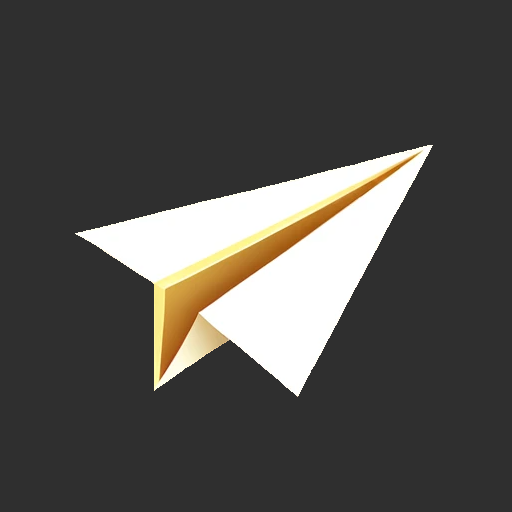
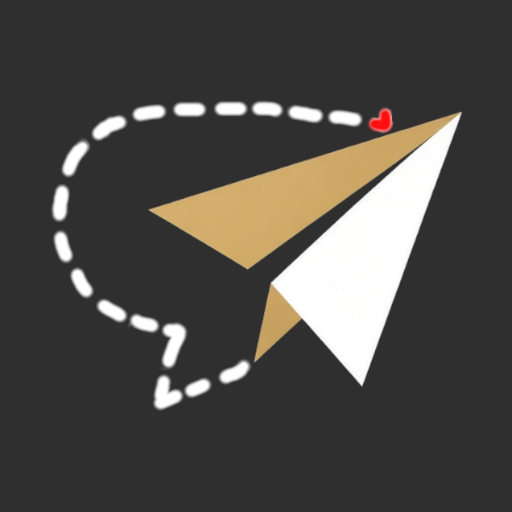
fix :
- changed title TikiLing -> TikiLingo
- changed AppIcon
- download URL(https://play.google.com/store/apps/details?id=com.smk.tikitalk)

Changed region(s): [[0.0938, 0.1875, 0.9062, 0.8125]]

diff --git a/account-deletion.html b/account-deletion.html
@@ -7,9 +7,9 @@
     <meta name="viewport" content="width=device-width, initial-scale=1">
 
     <meta name="description"
-        content="TikiTalk account deletion instructions. Learn how to request deletion of your TikiTalk account and associated data.">
+        content="T:I:K:I Ling。 account deletion instructions. Learn how to request deletion of your T:I:K:I Ling。 account and associated data.">
 
-    <title>TikiTalk | Account Deletion</title>
+    <title>T:I:K:I Ling。 | Account Deletion</title>
 
     <link rel="icon" type="image/png" sizes="512x512" href="/assets/img/SMK_LOGO_512x512.png">
     <link rel="apple-touch-icon" sizes="180x180" href="/assets/img/SMK_LOGO_512x512.png">
@@ -21,9 +21,9 @@
 
     <meta property="og:type" content="website">
     <meta property="og:url" content="https://smk-dev.com/account-deletion.html">
-    <meta property="og:title" content="TikiTalk | Account Deletion">
+    <meta property="og:title" content="T:I:K:I Ling。 | Account Deletion">
     <meta property="og:description"
-        content="Learn how to request deletion of your TikiTalk account and associated data.">
+        content="Learn how to request deletion of your T:I:K:I Ling。 account and associated data.">
     <meta property="og:image" content="https://smk-dev.com/assets/img/SMK_LOGO_512x512.png">
 
     <link rel="stylesheet" href="style.css">
@@ -53,7 +53,7 @@
             <div class="container">
 
                 <div class="section-head">
-                    <p class="eyebrow" id="eyebrow">TikiTalk</p>
+                    <p class="eyebrow" id="eyebrow">T:I:K:I Ling。</p>
                     <h1 id="pageTitle">Account Deletion</h1>
                 </div>
 
@@ -181,7 +181,7 @@
         const translations = {
 
             en: {
-                eyebrow: "TikiTalk",
+                eyebrow: "T:I:K:I Ling。",
 
                 pageTitle:
                     "Account Deletion",
@@ -190,22 +190,22 @@
                     "Developer: SMK DevLabs",
 
                 intro:
-                    "TikiTalk is a global text-based random chat and social communication app that allows users to meet new people and communicate through text.",
+                    "T:I:K:I Ling。 is a global text-based random chat and social communication app that allows users to meet new people and communicate through text.",
 
                 requestTitle:
-                    "🗑 How to Delete Your TikiTalk Account",
+                    "🗑 How to Delete Your T:I:K:I Ling。 Account",
 
                 requestIntro:
-                    "You can request deletion of your TikiTalk account and associated personal data directly from the TikiTalk app or by email. Please use either of the following methods.",
+                    "You can request deletion of your T:I:K:I Ling。 account and associated personal data directly from the T:I:K:I Ling。 app or by email. Please use either of the following methods.",
 
                 appRequestTitle:
-                    "📱 Option 1 — Request Deletion in the TikiTalk App",
+                    "📱 Option 1 — Request Deletion in the T:I:K:I Ling。 App",
 
                 appStep1:
-                    "Open the TikiTalk app and go to <strong>Settings</strong>.",
+                    "Open the T:I:K:I Ling。 app and go to <strong>Settings</strong>.",
 
                 appStep2:
-                    "Select <strong>Contact Us</strong> and send a request asking us to delete your TikiTalk account. Your account information will be used to identify your account and process the deletion request.",
+                    "Select <strong>Contact Us</strong> and send a request asking us to delete your T:I:K:I Ling。 account. Your account information will be used to identify your account and process the deletion request.",
 
                 emailRequestTitle:
                     "📧 Option 2 — Request Deletion by Email",
@@ -214,13 +214,13 @@
                     'Send an email to <a href="mailto:help@smk-dev.com">help@smk-dev.com</a>.',
 
                 emailStep2:
-                    'Use <strong>TikiTalk Account Deletion Request</strong> as the email subject.',
+                    'Use <strong>T:I:K:I Ling。 Account Deletion Request</strong> as the email subject.',
 
                 emailStep3:
-                    "Include the email address associated with your TikiTalk account.",
+                    "Include the email address associated with your T:I:K:I Ling。 account.",
 
                 emailStep4:
-                    "If you cannot access the TikiTalk app, provide the email address associated with your TikiTalk account so that we can verify your account.",
+                    "If you cannot access the T:I:K:I Ling。 app, provide the email address associated with your T:I:K:I Ling。 account so that we can verify your account.",
 
                 requestProcess:
                     "After verifying the deletion request, SMK DevLabs will process the account deletion.",
@@ -238,7 +238,7 @@
                     "Please note the following before submitting an account deletion request:",
 
                 caution1:
-                    "All account information and information stored in the TikiTalk app will be deleted.",
+                    "All account information and information stored in the T:I:K:I Ling。 app will be deleted.",
 
                 caution2:
                     "Any remaining <strong>T-Coin</strong> balance in your account will also be permanently deleted.",
@@ -250,10 +250,10 @@
                     "Data That Will Be Deleted",
 
                 deletedIntro:
-                    "When your TikiTalk account is deleted, the following account-related data will be deleted from our active systems.",
+                    "When your T:I:K:I Ling。 account is deleted, the following account-related data will be deleted from our active systems.",
 
                 deleted1:
-                    "TikiTalk account information",
+                    "T:I:K:I Ling。 account information",
 
                 deleted2:
                     "User ID and account identifiers",
@@ -271,7 +271,7 @@
                     "Chat and messaging data associated with the account",
 
                 deleted7:
-                    "Other personal information associated with the TikiTalk account",
+                    "Other personal information associated with the T:I:K:I Ling。 account",
 
                 retainedTitle:
                     "Data That May Be Retained",
@@ -283,7 +283,7 @@
                     "Backup Data",
 
                 backupText:
-                    "Account data may temporarily remain in backup systems after account deletion. Backup data is not used for normal TikiTalk operations and is automatically overwritten or deleted according to our backup retention cycle.",
+                    "Account data may temporarily remain in backup systems after account deletion. Backup data is not used for normal T:I:K:I Ling。 operations and is automatically overwritten or deleted according to our backup retention cycle.",
 
                 retentionPeriod:
                     "Maximum additional retention period: 90 days.",
@@ -298,7 +298,7 @@
                     "Important Information",
 
                 important1:
-                    "Deleting your TikiTalk account is permanent and cannot be reversed.",
+                    "Deleting your T:I:K:I Ling。 account is permanent and cannot be reversed.",
 
                 important2:
                     "Any T-Coin, permanent passes, lifetime access, or other account-based benefits remaining in the account will be permanently lost after account deletion.",
@@ -312,7 +312,7 @@
 
             ko: {
                 eyebrow:
-                    "TikiTalk",
+                    "T:I:K:I Ling。",
 
                 pageTitle:
                     "계정 삭제",
@@ -321,22 +321,22 @@
                     "개발자: SMK DevLabs",
 
                 intro:
-                    "TikiTalk은 전 세계의 새로운 사람들과 텍스트를 통해 대화할 수 있는 글로벌 텍스트 기반 랜덤 채팅 및 소셜 커뮤니케이션 앱입니다.",
+                    "T:I:K:I Ling。은 전 세계의 새로운 사람들과 텍스트를 통해 대화할 수 있는 글로벌 텍스트 기반 랜덤 채팅 및 소셜 커뮤니케이션 앱입니다.",
 
                 requestTitle:
-                    "🗑 TikiTalk 계정 삭제 방법",
+                    "🗑 T:I:K:I Ling。 계정 삭제 방법",
 
                 requestIntro:
-                    "TikiTalk 계정 및 계정과 관련된 개인정보의 삭제를 요청할 수 있습니다. TikiTalk 앱에서 직접 요청하거나 이메일을 통해 요청할 수 있습니다.",
+                    "T:I:K:I Ling。 계정 및 계정과 관련된 개인정보의 삭제를 요청할 수 있습니다. T:I:K:I Ling。 앱에서 직접 요청하거나 이메일을 통해 요청할 수 있습니다.",
 
                 appRequestTitle:
-                    "📱 방법 1 — TikiTalk 앱에서 삭제 요청",
+                    "📱 방법 1 — T:I:K:I Ling。 앱에서 삭제 요청",
 
                 appStep1:
-                    "TikiTalk 앱을 실행한 후 <strong>설정</strong>으로 이동합니다.",
+                    "T:I:K:I Ling。 앱을 실행한 후 <strong>설정</strong>으로 이동합니다.",
 
                 appStep2:
-                    "<strong>문의하기</strong>를 선택한 후 TikiTalk 계정 삭제를 요청하는 내용을 보내주세요. 계정 정보는 삭제 요청 확인 및 계정 식별을 위해 사용됩니다.",
+                    "<strong>문의하기</strong>를 선택한 후 T:I:K:I Ling。 계정 삭제를 요청하는 내용을 보내주세요. 계정 정보는 삭제 요청 확인 및 계정 식별을 위해 사용됩니다.",
 
                 emailRequestTitle:
                     "📧 방법 2 — 이메일로 삭제 요청",
@@ -345,13 +345,13 @@
                     '<a href="mailto:help@smk-dev.com">help@smk-dev.com</a>으로 이메일을 보내주세요.',
 
                 emailStep2:
-                    '이메일 제목에 <strong>TikiTalk Account Deletion Request</strong>를 입력해주세요.',
+                    '이메일 제목에 <strong>T:I:K:I Ling。 Account Deletion Request</strong>를 입력해주세요.',
 
                 emailStep3:
-                    "TikiTalk 계정에 연결된 이메일 주소를 기재해주세요.",
+                    "T:I:K:I Ling。 계정에 연결된 이메일 주소를 기재해주세요.",
 
                 emailStep4:
-                    "TikiTalk 앱에 접근할 수 없는 경우 계정 확인을 위해 TikiTalk 계정에 연결된 이메일 주소를 기재해주세요.",
+                    "T:I:K:I Ling。 앱에 접근할 수 없는 경우 계정 확인을 위해 T:I:K:I Ling。 계정에 연결된 이메일 주소를 기재해주세요.",
 
                 requestProcess:
                     "삭제 요청을 확인하고 본인 확인 절차가 완료되면 SMK DevLabs에서 계정 삭제를 진행합니다.",
@@ -381,10 +381,10 @@
                     "삭제되는 데이터",
 
                 deletedIntro:
-                    "TikiTalk 계정이 삭제되면 다음 계정 관련 데이터가 활성 운영 시스템에서 삭제됩니다.",
+                    "T:I:K:I Ling。 계정이 삭제되면 다음 계정 관련 데이터가 활성 운영 시스템에서 삭제됩니다.",
 
                 deleted1:
-                    "TikiTalk 계정 정보",
+                    "T:I:K:I Ling。 계정 정보",
 
                 deleted2:
                     "사용자 ID 및 계정 식별 정보",
@@ -402,7 +402,7 @@
                     "계정과 연결된 채팅 및 메시지 데이터",
 
                 deleted7:
-                    "TikiTalk 계정과 연결된 기타 개인정보",
+                    "T:I:K:I Ling。 계정과 연결된 기타 개인정보",
 
                 retainedTitle:
                     "일정 기간 보관될 수 있는 데이터",
@@ -414,7 +414,7 @@
                     "백업 데이터",
 
                 backupText:
-                    "계정 삭제 후에도 백업 시스템에 데이터가 일시적으로 남아 있을 수 있습니다. 백업 데이터는 TikiTalk의 일반적인 서비스 운영에 사용되지 않으며 백업 보관 주기에 따라 자동으로 덮어쓰거나 삭제됩니다.",
+                    "계정 삭제 후에도 백업 시스템에 데이터가 일시적으로 남아 있을 수 있습니다. 백업 데이터는 T:I:K:I Ling。의 일반적인 서비스 운영에 사용되지 않으며 백업 보관 주기에 따라 자동으로 덮어쓰거나 삭제됩니다.",
 
                 retentionPeriod:
                     "최대 추가 보관 기간: 90일",
@@ -429,7 +429,7 @@
                     "중요 안내",
 
                 important1:
-                    "TikiTalk 계정 삭제는 영구적으로 처리되며 취소하거나 되돌릴 수 없습니다.",
+                    "T:I:K:I Ling。 계정 삭제는 영구적으로 처리되며 취소하거나 되돌릴 수 없습니다.",
 
                 important2:
                     "계정에 남아 있는 T-Coin, 영구 패스권, 평생 이용권 및 기타 계정 기반 혜택은 계정 삭제 후 모두 소멸됩니다.",
@@ -472,8 +472,8 @@
 
             document.title =
                 currentLanguage === "en"
-                    ? "TikiTalk | Account Deletion"
-                    : "TikiTalk | 계정 삭제";
+                    ? "T:I:K:I Ling。 | Account Deletion"
+                    : "T:I:K:I Ling。 | 계정 삭제";
         }
 
         document

diff --git a/index.html b/index.html
@@ -69,7 +69,7 @@
           <h1 data-i18n-key="hero.title">Creating What’s Next in Mobile</h1>
           <p class="hero-text" data-i18n-key="hero.description">
             SMK DevLabs develops innovative digital experiences powered by AI and mobile technology. We create intuitive and
-            reliable services for a global audience, including TikiTalk, our random chat and social communication app.
+            reliable services for a global audience, including TikiLingo, our random chat and social communication app.
           </p>
           <div class="hero-actions">
             <a class="btn primary" href="#product">
@@ -88,10 +88,10 @@
 
             <span class="hero-text" data-i18n-key="hero.productTitle"
               style="color: var(--brand-2); font-size: 1.55rem; font-weight: 600;">
-              TikiTalk ChatApp
+              T:I:K:I Ling。 ChatApp
             </span>
 
-            <img src="assets/img/tikitalk-qr.png" alt="TikiTalk QR Code"
+            <img src="assets/img/tikitalk-qr.png" alt="T:I:K:I Ling。 QR Code"
               style="width: 200px; height: 200px; object-fit: contain; background: white; padding: 6px; border-radius: 12px;">
 
             <span data-i18n-key="hero.productScan"
@@ -155,13 +155,13 @@
         <a class="product-card-main" href="https://play.google.com/store/apps/details?id=com.smk.tikitalk"
           target="_blank" rel="noreferrer">
           <div class="product-left-group">
-            <img src="assets/img/tikitalk-qr.png" alt="TikiTalk QR Code" class="qr-img-large">
+            <img src="assets/img/tikitalk-qr.png" alt="T:I:K:I Ling。 QR Code" class="qr-img-large">
           </div>
           <div class="main-product-content">
             <div class="main-product-header">
               <div class="title-with-badge">
-                <img src="assets/img/app-icon.png" alt="TikiTalk Icon" class="inline-app-icon">
-                <h2 data-i18n-key="product.heading">TikiTalk: Random Chat</h2>
+                <img src="assets/img/app-icon.png" alt="T:I:K:I Ling。 Icon" class="inline-app-icon">
+                <h2 data-i18n-key="product.heading">TikiLingo: Random Chat</h2>
                 <img src="https://play.google.com/intl/en_us/badges/static/images/badges/en_badge_web_generic.png"
                   alt="Get it on Google Play" class="google-play-store-button">
               </div>
